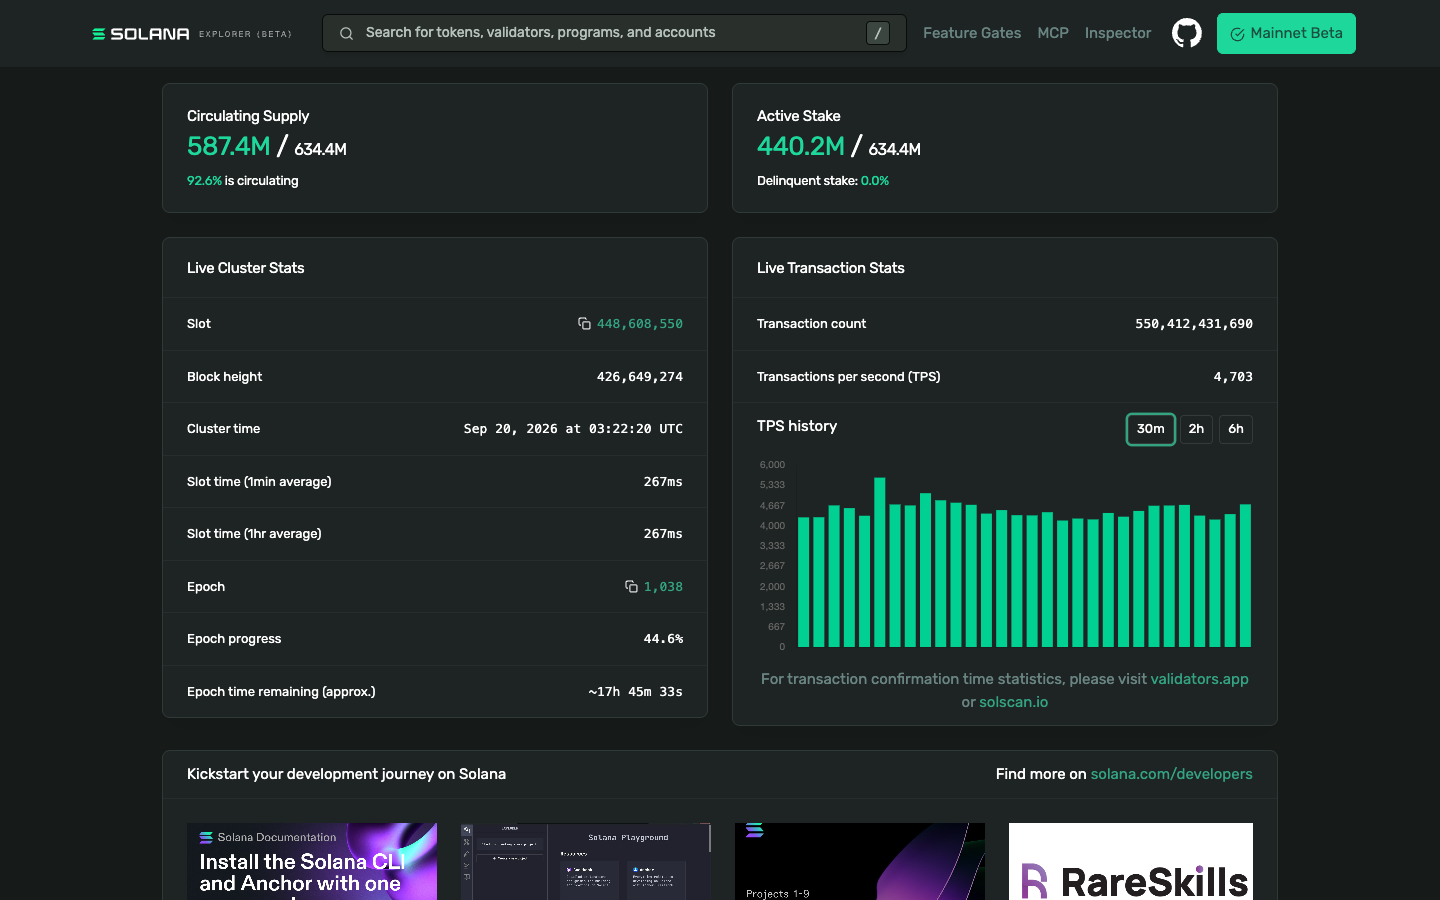
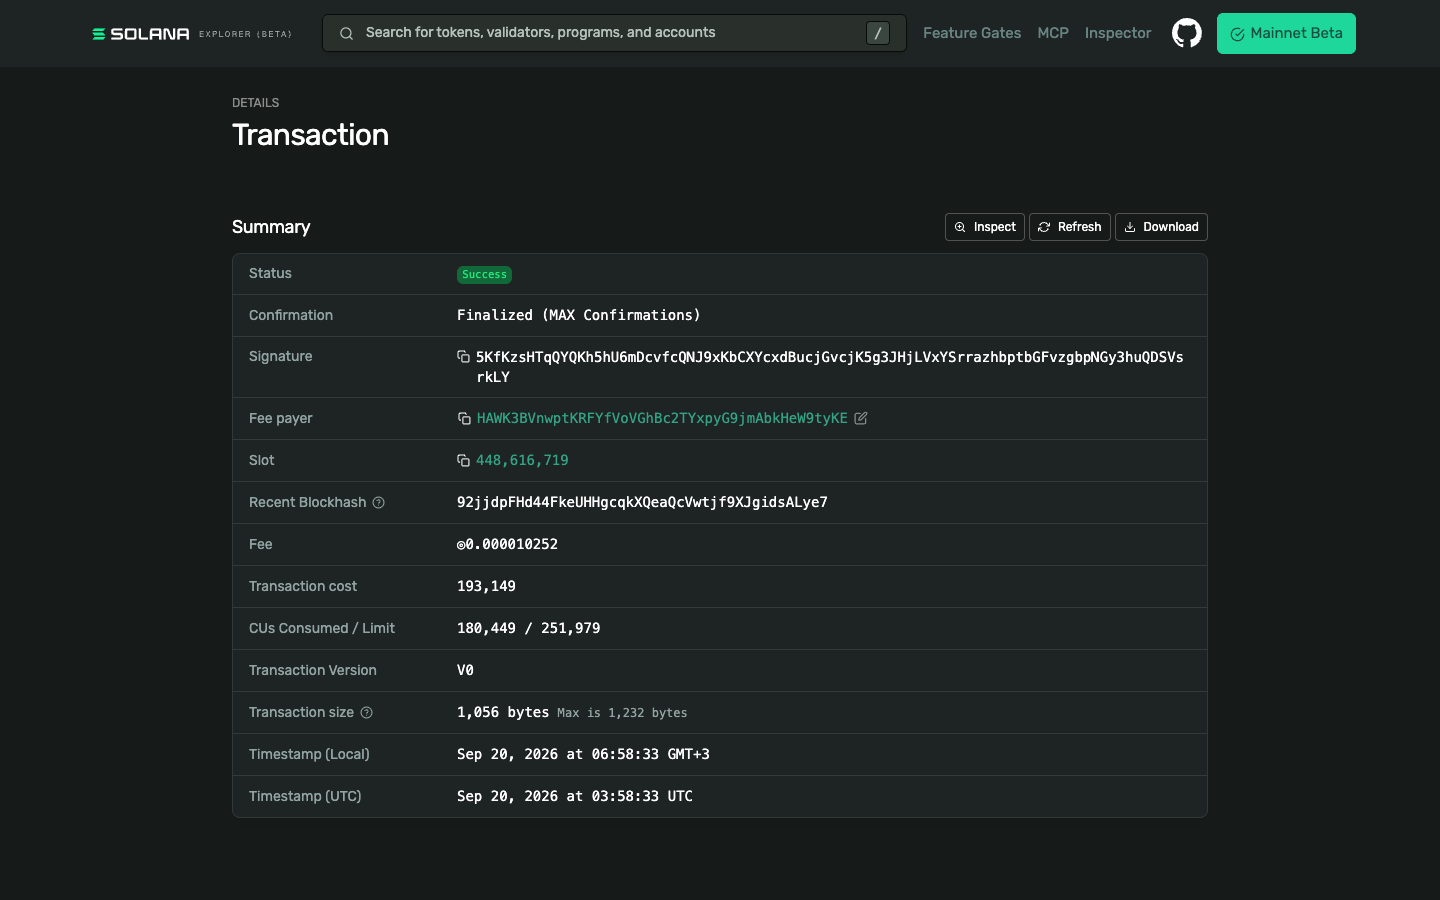
Use real Etherscan and Solana transaction pages in the starter guide
Replace the Blockscout and cluster-stats figures with live explorer
transaction screenshots, and close the Kamino TVL table row.

diff --git a/starting-with-crypto.html b/starting-with-crypto.html
@@ -44,7 +44,7 @@
 <p>Open Jupiter at <a href="https://jup.ag/">jup.ag</a>. Phantom is at <a href="https://phantom.com/">phantom.com</a>. Same rule as EVM: never type a seed into a site that is not the wallet you just downloaded.</p></section>
 
 <section aria-labelledby="etherscan"><h2 id="etherscan">How to check a transaction on Etherscan</h2>
-<figure class="photo-fig"><img src="assets/guides/etherscan-tx.png" alt="Blockscout Ethereum transaction page showing Success status, block number and 2 block confirmations" width="1440" height="900"><figcaption>A live Ethereum transfer on 20 September 2026, viewed on Blockscout, which shows the same fields as Etherscan: hash, Success, block, and confirmation count. This one had 2 block confirmations when captured.</figcaption></figure>
+<figure class="photo-fig"><img src="assets/guides/etherscan-tx.png" alt="Etherscan transaction page showing Success status, block 25982448 and 33760 block confirmations" width="1440" height="900"><figcaption>etherscan.io on 20 September 2026. A 0.00001 ETH transfer to vitalik.eth: Status Success, block 25982448, 33760 Block Confirmations. That confirmation count is the field you wait on.</figcaption></figure>
 <figure>
 <svg viewBox="0 0 680 268" role="img" aria-labelledby="es-title es-desc"><title id="es-title">What to read on an Ethereum explorer</title><desc id="es-desc">An Ethereum explorer shows the hash, status, block number, confirmation count, from and to addresses, value and the fee. Confirmation time is the wait until that confirmation count reaches the depth you chose.</desc>
 <rect class="cf-box" x="16" y="16" width="648" height="236" rx="8"/>
@@ -71,7 +71,8 @@
 <p>4. Read Confirmations. That integer is confirmation time in block-count form. One confirmation is inclusion. For a small transfer I will often move on after a few. For a large one I wait until the block is old enough that Ethereum’s checkpoint finality has had time to land, about two epochs or 13 minutes. The <a href="crypto-terms.html#confirm">terms page</a> tables that wait.</p></section>
 
 <section aria-labelledby="solana-explorer"><h2 id="solana-explorer">How to check a transaction on Solana</h2>
-<figure class="photo-fig"><img src="assets/guides/solana-explorer.png" alt="Official Solana explorer cluster stats including slot time and transaction counts on 20 September 2026" width="1440" height="900"><figcaption>Official Solana explorer on 20 September 2026. Slot time that hour averaged about 268 ms. Use this site or Solscan to open a signature.</figcaption></figure>
+<figure class="photo-fig"><img src="assets/guides/solscan-tx.png" alt="Solscan transaction page showing SUCCESS and Finalized MAX Confirmations" width="1440" height="900"><figcaption>solscan.io on 20 September 2026. Result is SUCCESS and Finalized (MAX Confirmations). That finalized status is the confirmation depth that matters on Solana.</figcaption></figure>
+<figure class="photo-fig"><img src="assets/guides/solana-explorer.png" alt="Official Solana explorer transaction page showing Success and Finalized MAX Confirmations" width="1440" height="900"><figcaption>The same signature on explorer.solana.com the same day. Status Success, Confirmation Finalized (MAX Confirmations), plus slot and fee.</figcaption></figure>
 <figure>
 <svg viewBox="0 0 680 240" role="img" aria-labelledby="so-title so-desc"><title id="so-title">What to read on a Solana explorer</title><desc id="so-desc">Solana explorers show a signature, a status of processed confirmed or finalized, a slot, fee, and the accounts involved. Finalized is the confirmation depth that matters for a large payment.</desc>
 <rect class="cf-box" x="16" y="16" width="648" height="208" rx="8"/>

diff --git a/dollar-yield.html b/dollar-yield.html
@@ -37,7 +37,7 @@
 <tr><td>Maple USDC</td><td>Ethereum</td><td>5.07%</td><td>$2.87B</td></tr>
 <tr><td>Sky sUSDS</td><td>Ethereum</td><td>3.60%</td><td>$4.38B</td></tr>
 <tr><td>Ethena protocol TVL</td><td>mostly Ethereum</td><td>n/a</td><td>$5.29B</td></tr>
-<tr><td>Kamino protocol TVL</td><td>Solana</td><td>n/a</td><td>$1.45B</td></tr
+<tr><td>Kamino protocol TVL</td><td>Solana</td><td>n/a</td><td>$1.45B</td></tr>
 </tbody></table></div>
 <p>Those APYs are already in percent on DefiLlama. They are not a forecast. Filter for stablecoin pools if you want dollar-denominated risk, then click through to the protocol and read how the yield is produced. DefiLlama will also show a protocol’s historical TVL at <a href="https://defillama.com/protocol/ethena">defillama.com/protocol/ethena</a> and <a href="https://defillama.com/protocol/kamino">/kamino</a>.</p>
 <p class="source-line">Source: <a href="https://yields.llama.fi/pools">yields.llama.fi/pools</a> and <a href="https://api.llama.fi/protocol/ethena">api.llama.fi/protocol/ethena</a>, pulled 20 September 2026.</p></section>

diff --git a/qa/content_guides.py b/qa/content_guides.py
@@ -20,6 +20,8 @@ PAGES = {
             "Phantom",
             "Etherscan",
             "confirmation time",
+            "33760 Block Confirmations",
+            "Finalized (MAX Confirmations)",
         ],
         "hrefs": [
             "https://www.ether.fi/@moon1337",
@@ -129,10 +131,16 @@ def main():
                 continue
             if not target.is_file():
                 errors.append(f"{name}: missing image file {src}")
-    if "defillama.com" not in (ROOT / "dollar-yield.html").read_text(encoding="utf-8") and "DefiLlama" not in (
-        ROOT / "dollar-yield.html"
-    ).read_text(encoding="utf-8"):
+    dollar = (ROOT / "dollar-yield.html").read_text(encoding="utf-8")
+    if "defillama.com" not in dollar and "DefiLlama" not in dollar:
         errors.append("dollar-yield.html: missing DefiLlama or defillama.com")
+    if "</tr\n" in dollar or "</tr<" in dollar:
+        errors.append("dollar-yield.html: unclosed table row")
+    starter = (ROOT / "starting-with-crypto.html").read_text(encoding="utf-8")
+    if "Blockscout Ethereum transaction page" in starter:
+        errors.append("starting-with-crypto.html: etherscan figure still describes Blockscout")
+    if "cluster stats" in starter:
+        errors.append("starting-with-crypto.html: solana figure still describes cluster stats")
     for message in errors:
         print(f"ERROR {message}")
     if errors:
